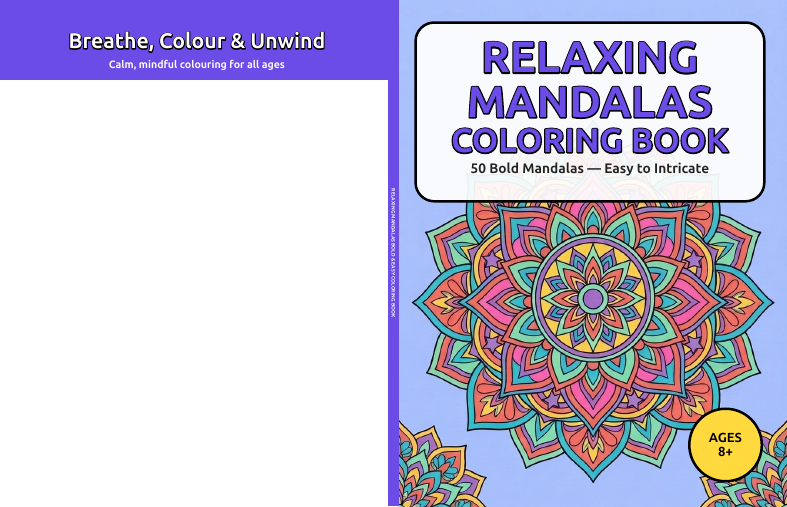
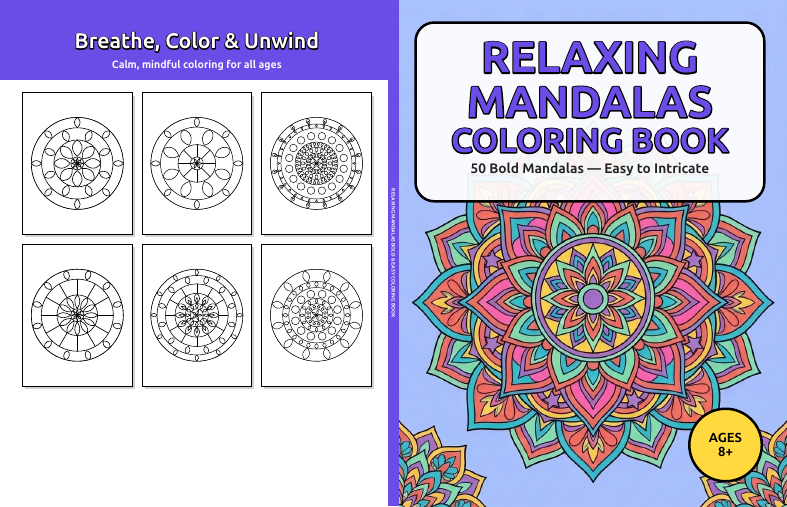
Fix blank back cover on Mandalas; US spelling
showcase_pages skipped every page with a single SVG part (meant to skip the
"left blank" backing pages), but a procedural mandala page is one part too,
so the Mandalas back cover had no showcase. Blank pages are now flagged
explicitly. Mandalas recipe switched to US spelling (Color/coloring).
New cover to upload once the book is live (currently In review).

Changed region(s): [[0.0305, 0.1775, 0.4879, 0.7692], [0.0915, 0.0592, 0.4269, 0.1479]]

diff --git a/kdp/book.py b/kdp/book.py
@@ -52,6 +52,7 @@ class Builder:
 
     def blank_back(self):
         p = self.new()
+        p.blank = True  # showcase_pages must skip these (can't tell by part count: a mandala page is 1 part too)
         p.text(p.w / 2, p.h / 2, "This page is left blank so colours don't bleed through.",
                size=9, weight="normal", fill="#999")
 
@@ -250,7 +251,7 @@ class Builder:
         for s in self.cfg["sections"]:
             start = len(self.pages)
             getattr(self, f"section_{s['type']}")(s)
-            self.section_pages.append([pg for pg in self.pages[start:] if len(pg.parts) > 1])
+            self.section_pages.append([pg for pg in self.pages[start:] if pg.parts and not getattr(pg, "blank", False)])
         self.solution_pages()
         while len(self.pages) < specs.MIN_PAGES or len(self.pages) % 2:
             self.new()
